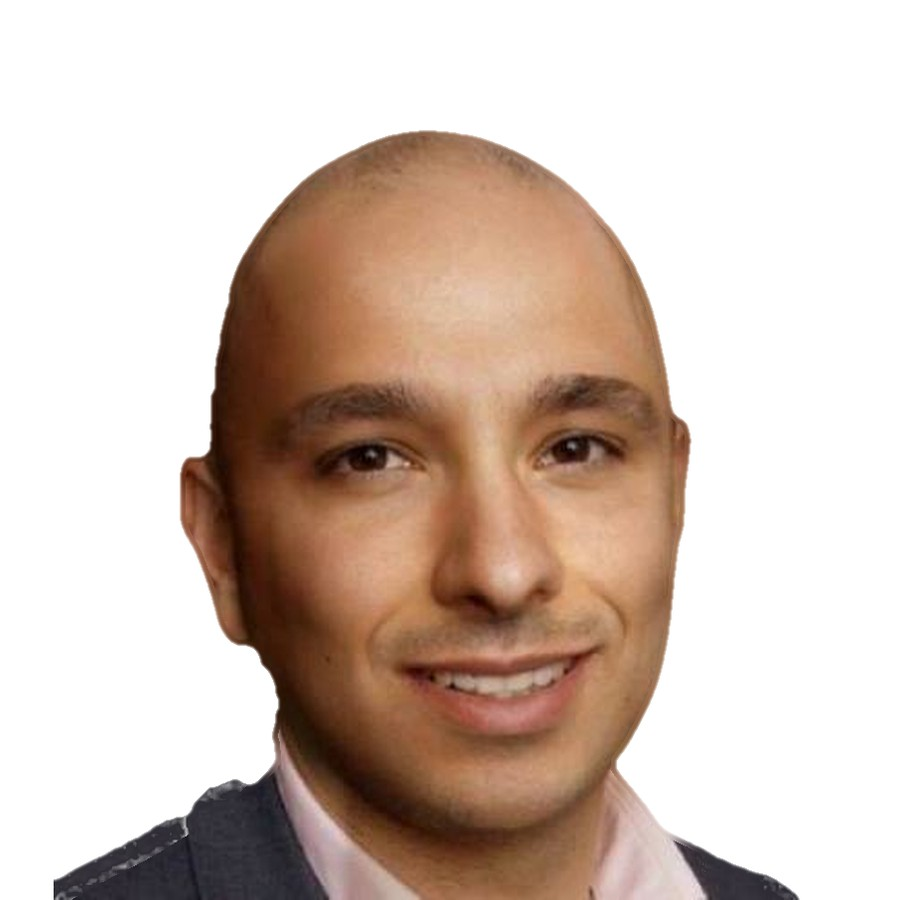
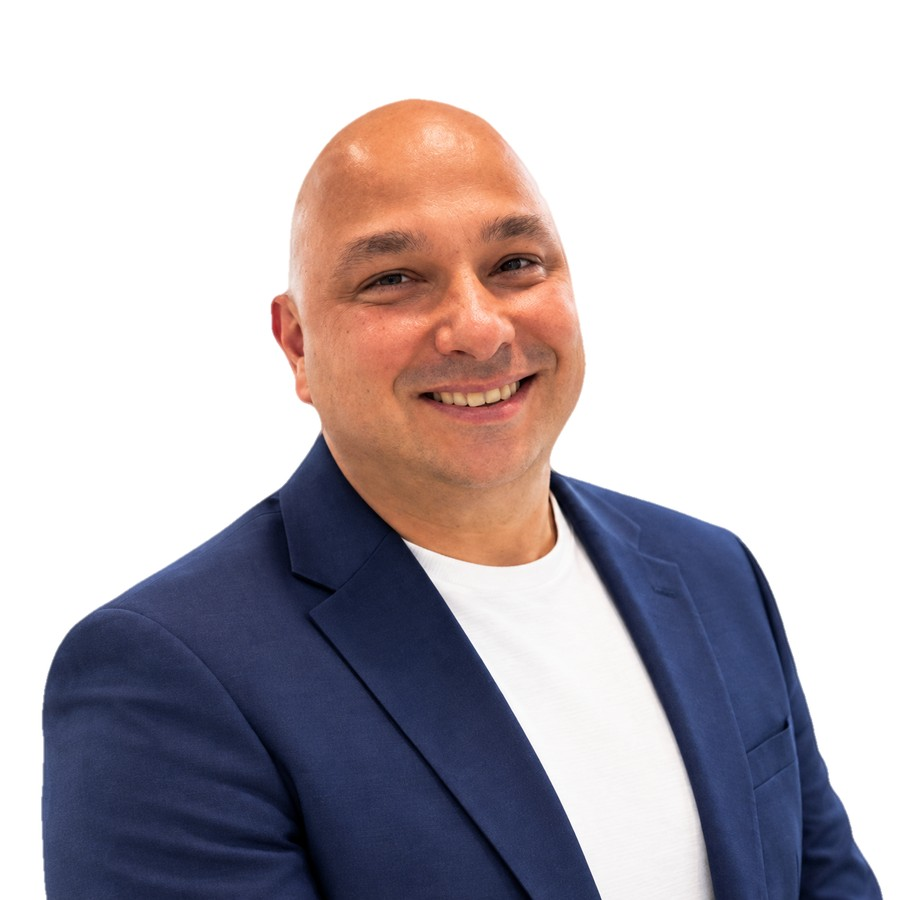
Faculty: photos of Kovačič, Marra, Ambrožič, Antonogiannakis, Martinčič and Masferrer; new photo of Neil Jain
Claude-Session: https://claude.ai/code/session_01UctKKNYtk9MYMcKBNg5a5s

diff --git a/faculty-data.js b/faculty-data.js
@@ -8,15 +8,15 @@
    slug    – optional: the subpage address is speaker.html#slug; when omitted it is made from the name */
 window.SKAA_FACULTY = [
   {name:"Benjamin Marjanovič", team:"ortho", captain:true, role:"Team captain · Expert jury", photo:"assets/faculty/benjamin-marjanovic.jpg", cv:"Biography to follow."},
-  {name:"Bogdan Ambrožič", team:"ortho", role:"Speaker · Expert jury", photo:"", cv:"Biography and photo to follow."},
-  {name:"Emmanouil Antonogiannakis", team:"ortho", role:"Battle · Speaker", photo:"", cv:"Biography and photo to follow."},
+  {name:"Bogdan Ambrožič", team:"ortho", role:"Speaker · Expert jury", photo:"assets/faculty/bogdan-ambrozic.jpg", cv:"Biography to follow."},
+  {name:"Emmanouil Antonogiannakis", team:"ortho", role:"Battle · Speaker", photo:"assets/faculty/emmanouil-antonogiannakis.jpg", cv:"Biography to follow."},
   {name:"Markas Fiodorovas", team:"ortho", role:"Battle · Speaker · Expert jury", photo:"", cv:"Biography and photo to follow."},
   {name:"Boštjan Gosnik", team:"ortho", role:"Speaker · Expert jury", photo:"", cv:"Biography and photo to follow."},
   {name:"Neil Jain", team:"ortho", role:"Battle · Speaker · Expert jury", photo:"assets/faculty/neil-jain.jpg", cv:"Biography to follow."},
-  {name:"Ladislav Kovačič", team:"ortho", role:"Speaker · Expert jury", photo:"", cv:"Biography and photo to follow."},
-  {name:"Guido Marra", team:"ortho", role:"Battle · Speaker · Expert jury", photo:"", cv:"Biography and photo to follow."},
-  {name:"David Martinčič", team:"ortho", role:"Speaker · Expert jury", photo:"", cv:"Biography and photo to follow."},
-  {name:"Àngel Masferrer", team:"ortho", role:"Battle · Speaker · Expert jury", photo:"", cv:"Biography and photo to follow."},
+  {name:"Ladislav Kovačič", team:"ortho", role:"Speaker · Expert jury", photo:"assets/faculty/ladislav-kovacic.jpg", cv:"Biography to follow."},
+  {name:"Guido Marra", team:"ortho", role:"Battle · Speaker · Expert jury", photo:"assets/faculty/guido-marra.jpg", cv:"Biography to follow."},
+  {name:"David Martinčič", team:"ortho", role:"Speaker · Expert jury", photo:"assets/faculty/david-martincic.jpg", cv:"Biography to follow."},
+  {name:"Àngel Masferrer", team:"ortho", role:"Battle · Speaker · Expert jury", photo:"assets/faculty/angel-masferrer.jpg", cv:"Biography to follow."},
   {name:"Jakob Merkač", team:"ortho", role:"Speaker · Expert jury", photo:"assets/faculty/jakob-merkac.jpg", cv:"Biography to follow."},
   {name:"Nino Mirnik", team:"ortho", role:"Expert jury", photo:"", cv:"Biography and photo to follow."},
   {name:"Marko Nabergoj", team:"ortho", role:"Speaker · Expert jury", photo:"assets/faculty/marko-nabergoj.jpg", cv:"Biography to follow."},
